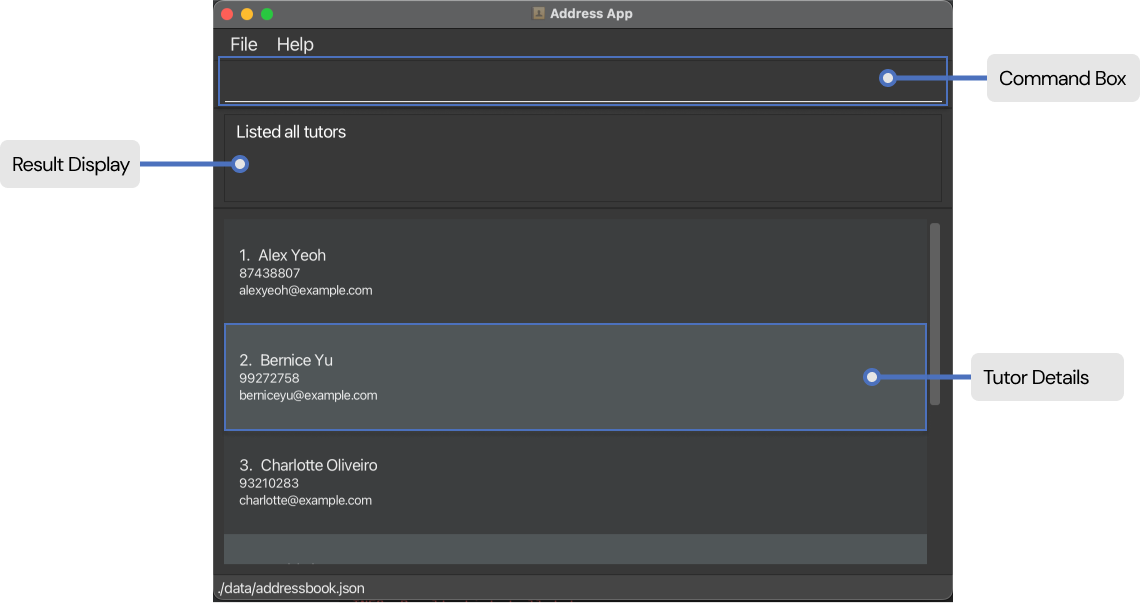
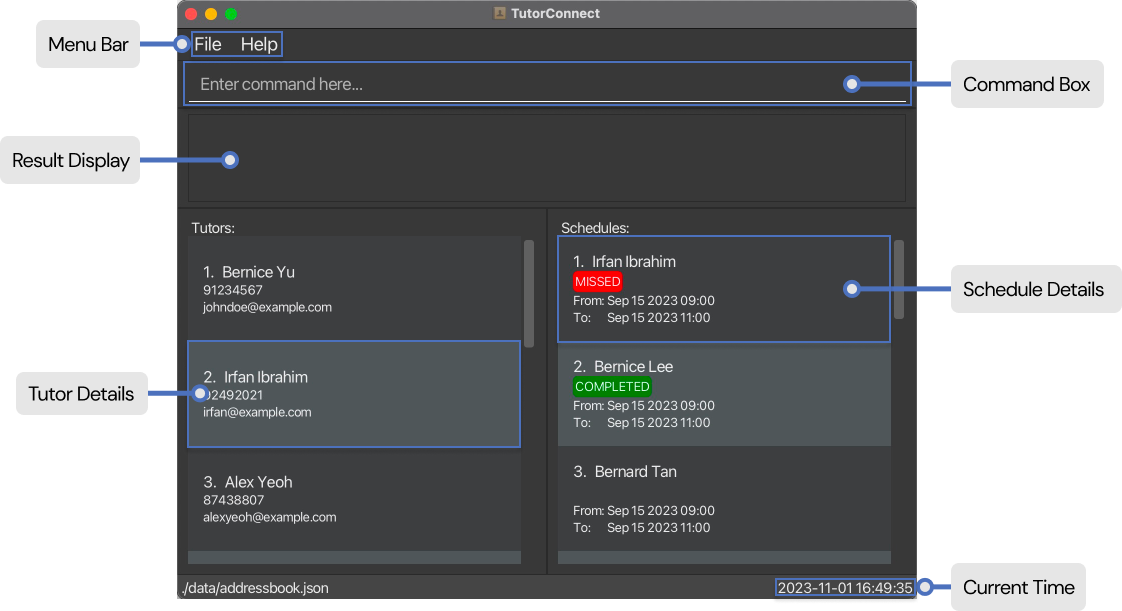
Update ui overview navigation in UG

diff --git a/docs/UserGuide.md b/docs/UserGuide.md
@@ -111,11 +111,14 @@ Below is a quick overview of the various components of our interface.
 
 ![ui overview](images/uiOverview.png)
 
-| Component      | Description                                                                                | 
-|----------------|--------------------------------------------------------------------------------------------|
-| Command Box    | You will enter your [commands](#glossary) along with its [parameters](#glossary) here.     | 
-| Result Display | Displays the results of your commands.<br/>Any error messages will also be displayed here. | 
-| Tutor Details  | Contains information related to the tutor like name, phone number etc.                     |
+| Component        | Description                                                                                | 
+|------------------|--------------------------------------------------------------------------------------------|
+| Command Box      | You will enter your [commands](#glossary) along with its [parameters](#glossary) here.     |
+| Menu Bar         | Contains dropdown menu options for the application.                                        |
+| Result Display   | Displays the results of your commands.<br/>Any error messages will also be displayed here. | 
+| Tutor Details    | Contains information related to the tutor like name, phone number etc.                     |
+| Schedule Details | Contains information related to the schedule like assigned tutor, start time etc.          |
+| Current Time     | Displays the current date and time.                                                        |
 
 [Back To Top](#table-of-contents)
 
